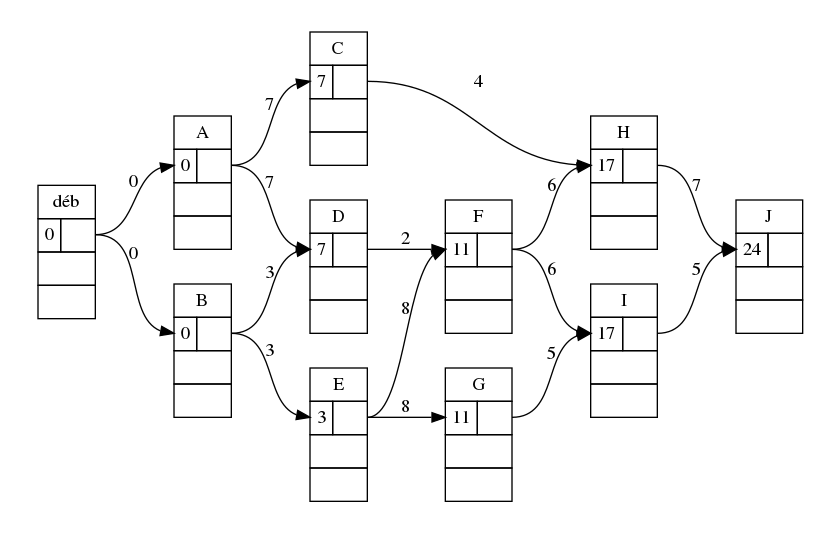
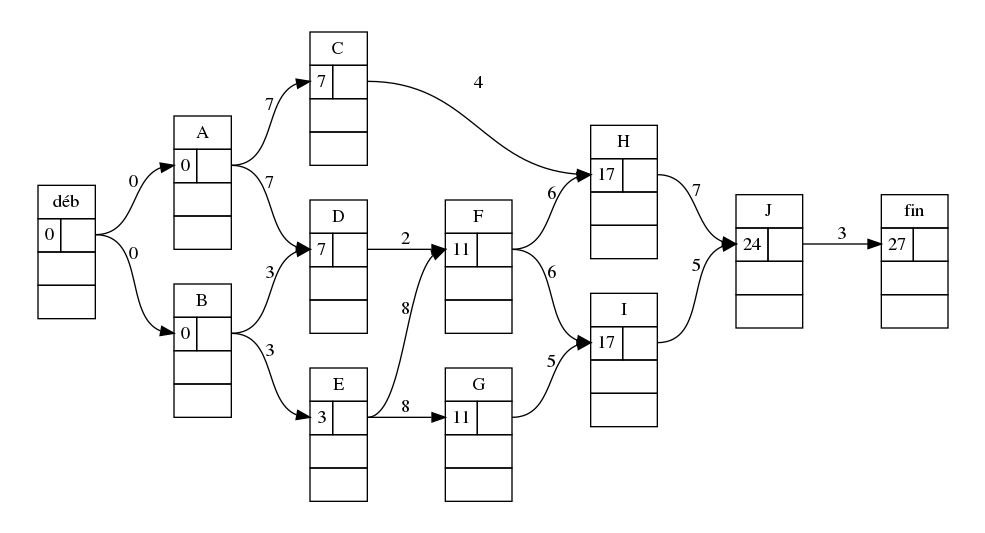
correctif sur la marge libre du nœud final qui doit faire 0.

diff --git a/grapheMPM/__init__.py b/grapheMPM/__init__.py
@@ -58,7 +58,7 @@ class GrapheMPM():
     Exemple::
 
     >>>p = {"déb":"", "A":['déb'], "B":['déb'], "C": "A", "D": "AB", "E":"B",
-       "F":"DE", "G": "E", "H":"CF", "I":"FG", "J": "HI"}
+       "F":"DE", "G": "E", "H":"CF", "I":"FG", "J": "HI", "fin": "J"}
     >>>w = {"déb": 0, "fin": 0,"A": 7, "B": 3, "C": 4, "D": 2, "E": 8,
        "F": 6, "G": 5, "H": 7, "I": 5, "J": 3}
     >>>G = GrapheMPM(pred=p, pond=w)
@@ -134,7 +134,8 @@ class GrapheMPM():
         NIVtmp = list(set(self.niveaux.values()))
         NIV = sorted(NIVtmp)
         for N in NIV:
-            with dot.subgraph(name="cluster_{}".format(N), node_attr={'rank': 'same'}) as c:
+            with dot.subgraph(name="cluster_{}".format(N),
+                              node_attr={'rank': 'same'}) as c:
                 c.attr(style="invis") # désactivation du cadre de cluster
                 for k,n in self.sommets.items(): # key, noeud
                     if self.niveaux[k] == N:
@@ -201,7 +202,7 @@ class GrapheMPM():
             tmp =[int(self.sommets[e].data["ed"])-self.ponderation[s]\
                   -int(self.sommets[s].data["ed"])
                       for e in self.successeurs[s]]
-            ml = (min(tmp) if len(tmp)>0 else self.sommets[s].data["ed"])
+            ml = (min(tmp) if len(tmp)>0 else 0) #self.sommets[s].data["ed"]
             #marge totale
             mt = int(self.sommets[s].data["ld"])-int(self.sommets[s].data["ed"])
             self.sommets[s].setdata(mt=str(mt), ml=str(ml))

diff --git a/setup.py b/setup.py
@@ -14,7 +14,7 @@ setup(
     # Versions should comply with PEP440.  For a discussion on single-sourcing
     # the version across setup.py and the project code, see
     # https://packaging.python.org/en/latest/single_source_version.html
-    version="0.3",
+    version="0.3.1",
     description="a bunch of classes to generate MPM graphs",
     long_description=long_description,
 

diff --git a/README.md b/README.md
@@ -9,7 +9,7 @@ d'ordonnancement.
 La classe `GrapheMPM` comporte:
 
 * le dictionnaire des `successeurs`
-* celui des `prédecesseurs`,
+* celui des `predecesseurs`,
 * celui des `niveaux` (à créer avec la méthode `setlevel`),
 * la matrice d'adjacence `mat_adj`,
 * le dictionnaire des `sommets` pour lier leur nom à leur emplacement dans la matrice d'adjacence,
@@ -25,14 +25,14 @@ dépendances:
 
 Illustration de principe:
 =========================
-On créée un objet `GrapheMPM` à l'aide d'un dictionnaire des successeurs et un dictionnaire des pondérations.
+On créée un objet `GrapheMPM` à l'aide d'un dictionnaire des successeurs ou des prédecesseurs et un dictionnaire des pondérations.
 
 ```python
-from grapheMPM import noeud, GrapheMPM
+from grapheMPM import GrapheMPM
 
 #dico des prédecesseurs
 p = {"déb":"", "A":['déb'], "B":['déb'], "C": "A", "D": "AB", "E":"B",
-"F":"DE", "G": "E", "H":"CF", "I":"FG", "J": "HI"}
+"F":"DE", "G": "E", "H":"CF", "I":"FG", "J": "HI", "fin": "J"}
 #dico des pondérations
 w = {"déb": 0, "fin": 0,"A": 7, "B": 3, "C": 4, "D": 2, "E": 8,
 "F": 6, "G": 5, "H": 7, "I": 5, "J": 3}
